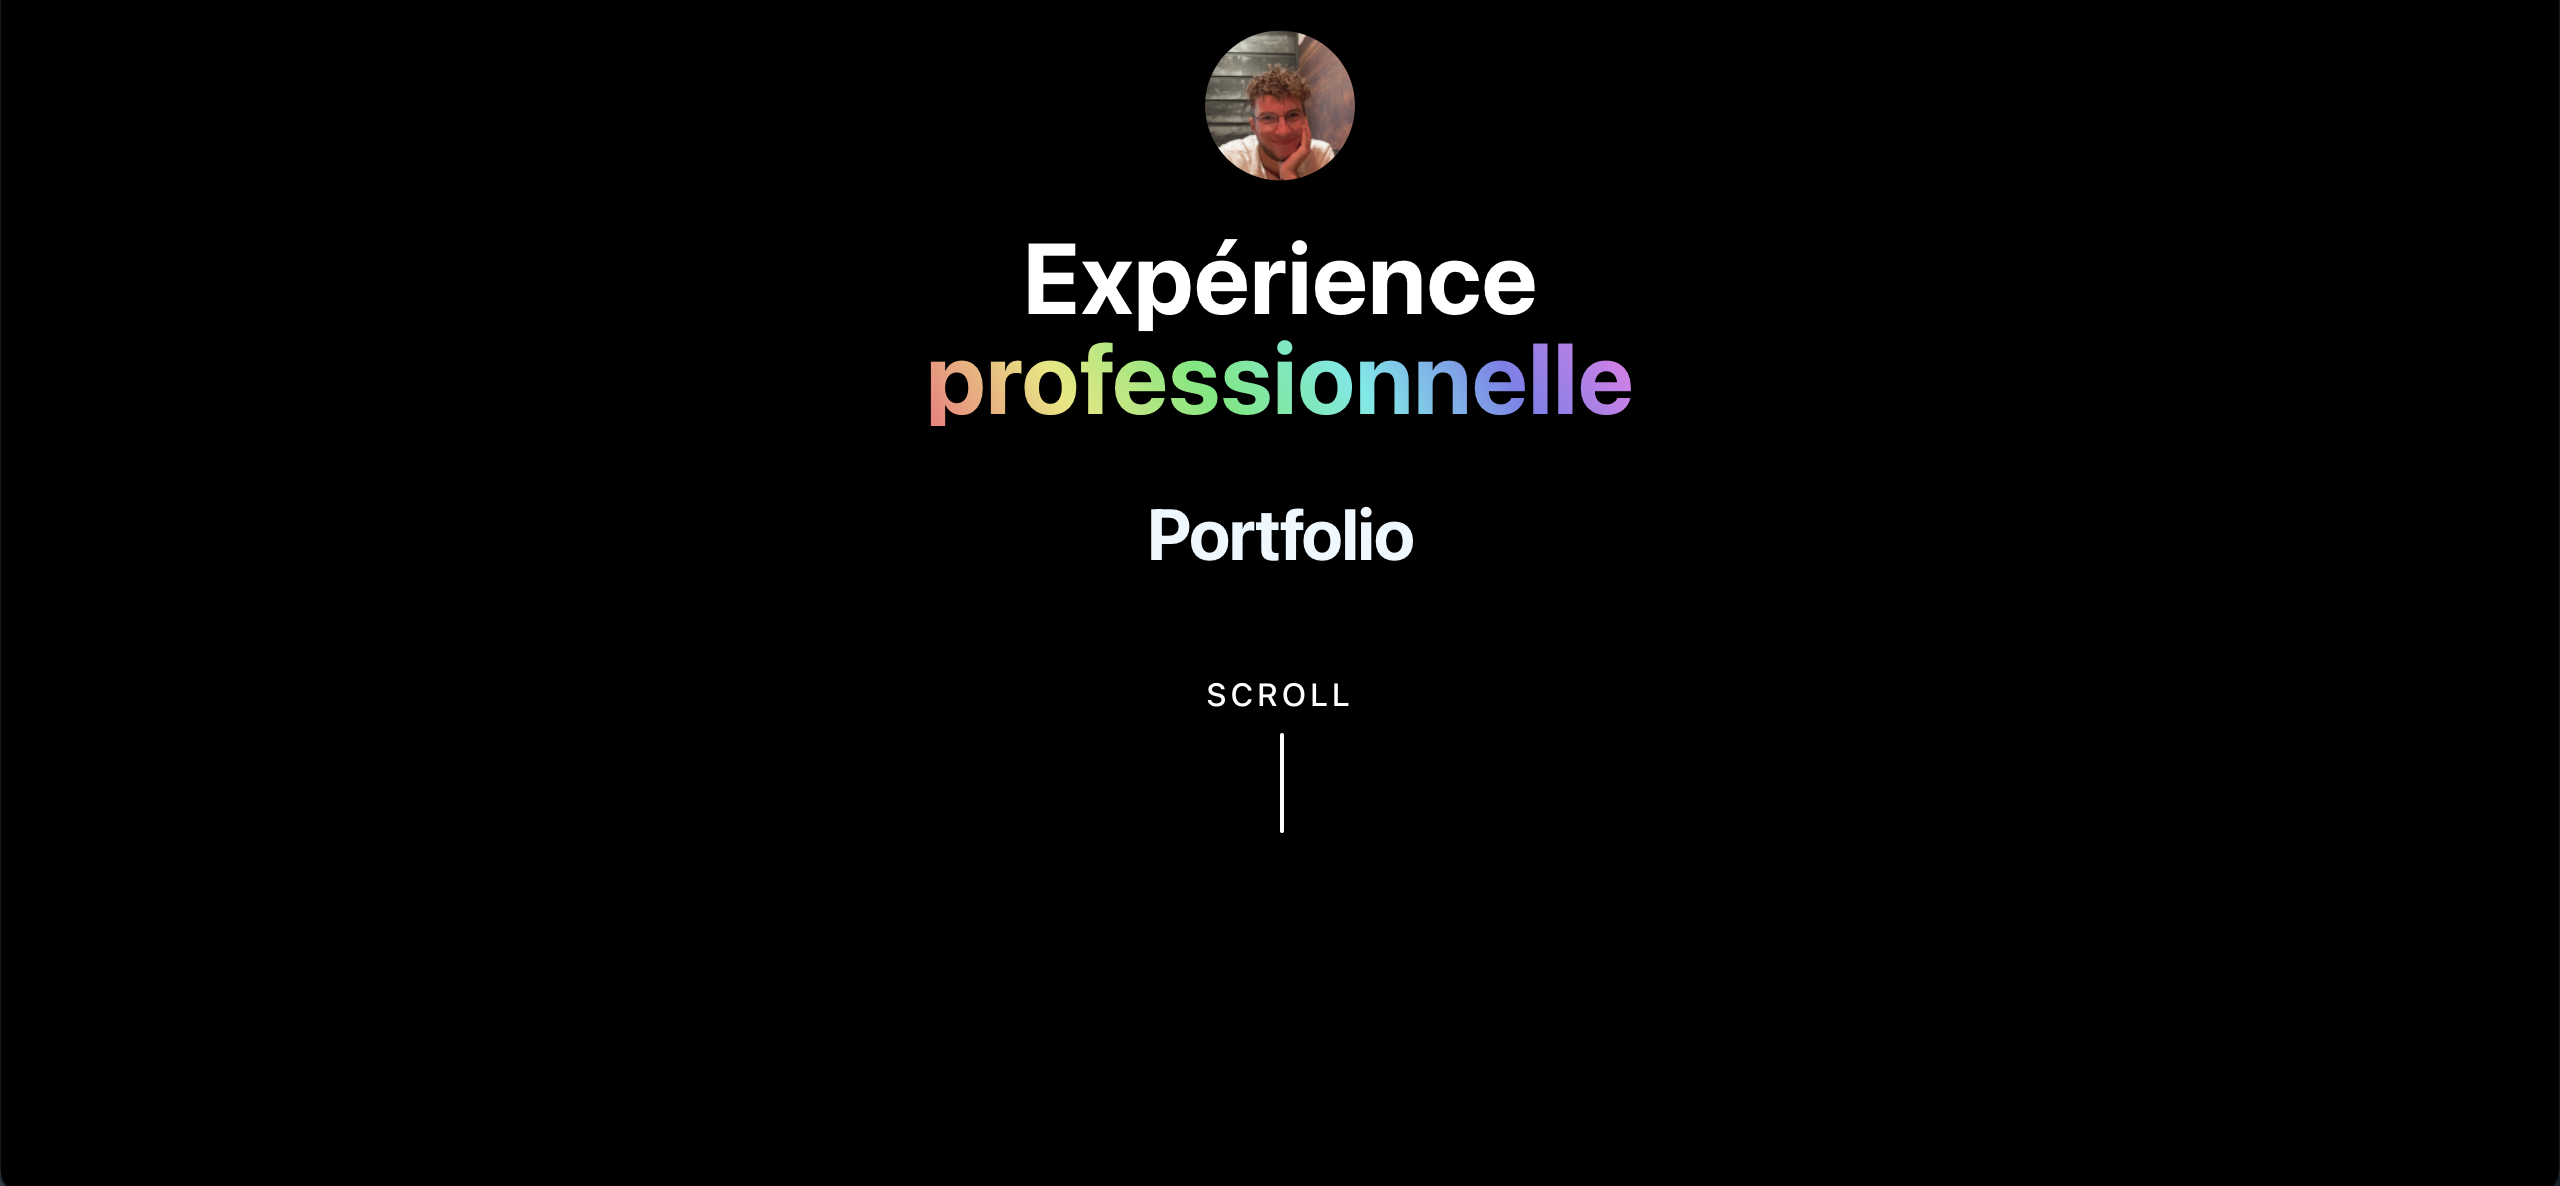
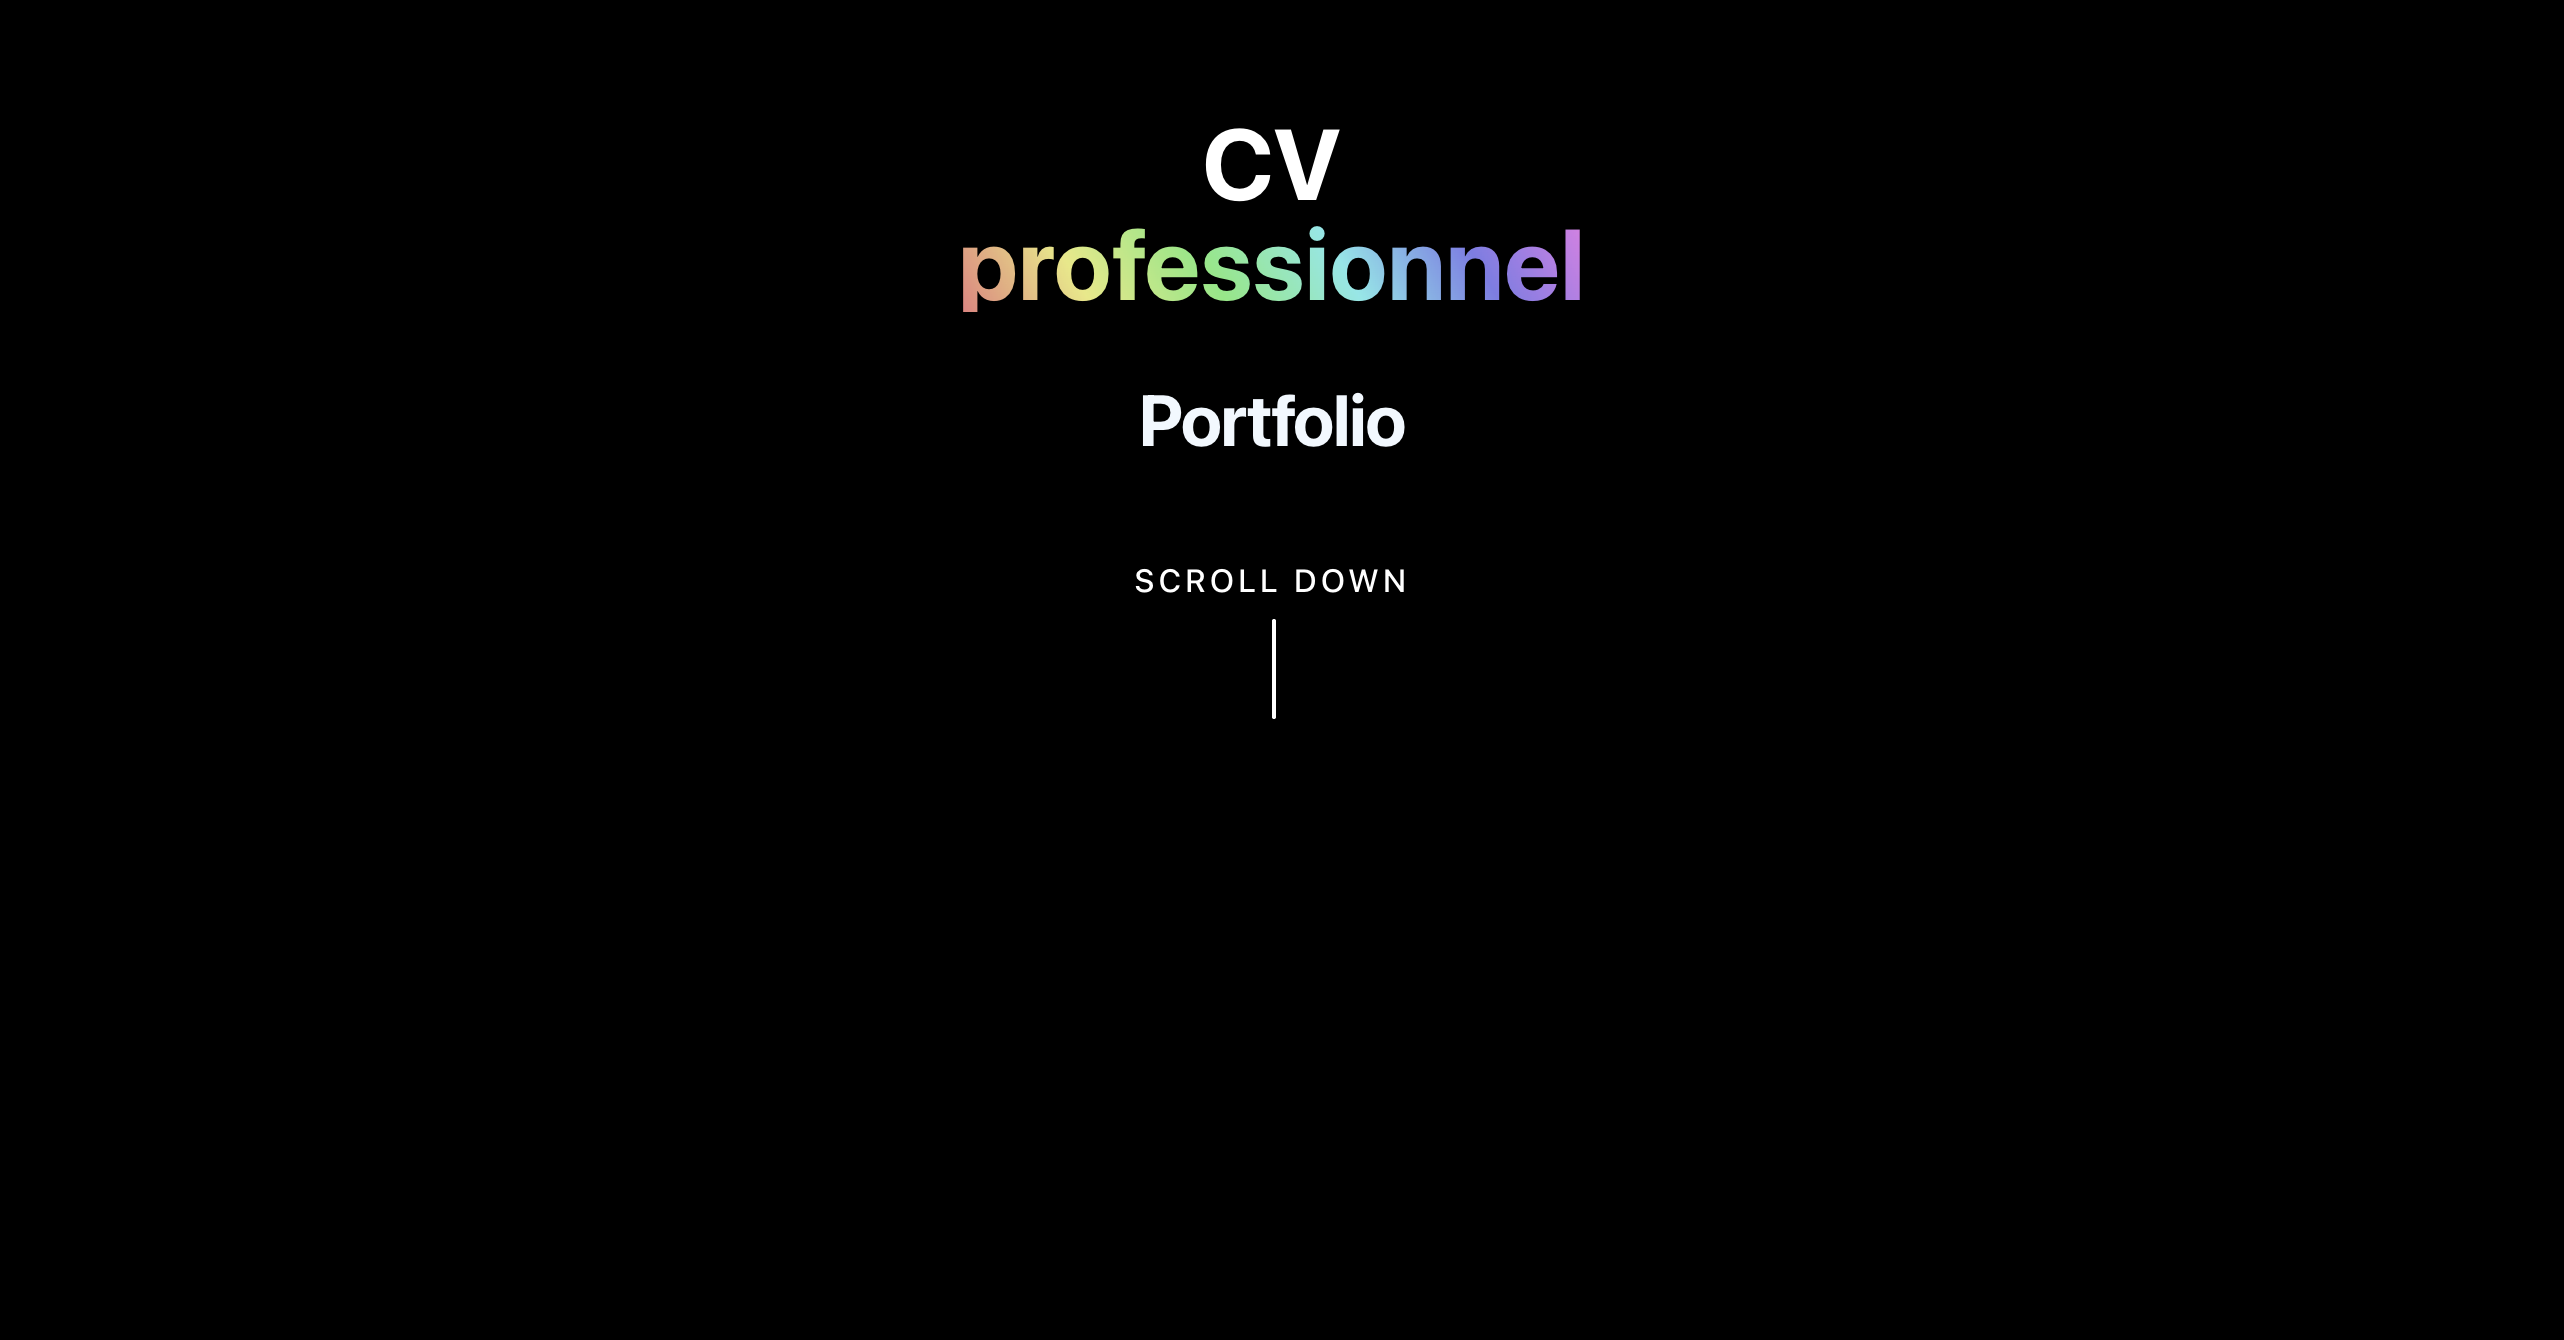
modifs

Changed region(s): [[0.3438, 0.0312, 0.6562, 0.3744], [0.4375, 0.4056, 0.5625, 0.4992], [0.4688, 0.5616, 0.5312, 0.5927]]

diff --git a/src/components/Presentation.jsx b/src/components/Presentation.jsx
@@ -7,7 +7,6 @@ const Section2 = () => {
         <h1>Présentation</h1>
       </div>
       <div className="presentation__desc">
-        <img src="/me.png" alt="imgMe" />
         <div className="presentation__desc__text">
           <p>
             Agent de maintenance en reconversion, naturellement je me suis

diff --git a/src/components/Home.jsx b/src/components/Home.jsx
@@ -5,7 +5,7 @@ const Section1 = () => {
     <div className="area">
       <div className="area__title">
         <h1>Lagarde Vincent</h1>
-        <h2>Développeur Web Front </h2>
+        <h2>Développeur Web Full-Stack </h2>
       </div>
       <ul className="circles">
         <li></li>

diff --git a/src/styles/_projects.scss b/src/styles/_projects.scss
@@ -4,7 +4,7 @@
   justify-content: center;
   text-align: center;
   height: 100%;
-  background: linear-gradient(#446cbd 50%, #1e4eaf 100%);
+  background: linear-gradient(#446cbd 50%, #083796 100%);
   color: aliceblue;
   padding: 2rem;
   &__title {

diff --git a/src/styles/_contact.scss b/src/styles/_contact.scss
@@ -4,7 +4,7 @@
   justify-content: space-around;
   align-items: center;
   height: 100vh;
-  background: linear-gradient(#1e4eaf 50%, #01205f 100%);
+  background: linear-gradient(#083796 50%, #00091b 100%);
   color: aliceblue;
 
   &__title {

diff --git a/src/data/skillsArray.js b/src/data/skillsArray.js
@@ -27,12 +27,6 @@ const skillsArray = [
 
   {
     id: 6,
-    name: "Postman",
-    image: "logoPostman.png",
-  },
-
-  {
-    id: 5,
     name: "JavaScript",
     image: "logoJS.png",
   },
